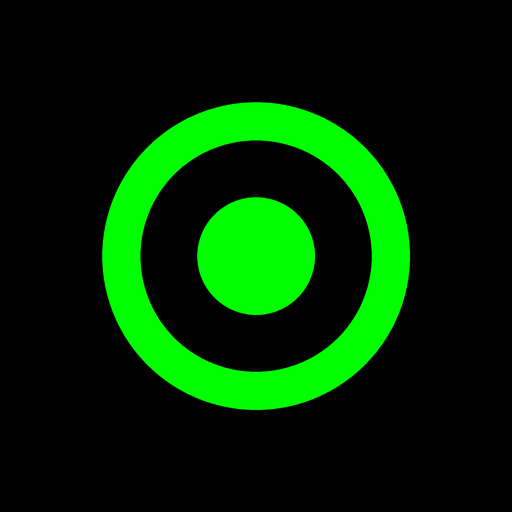
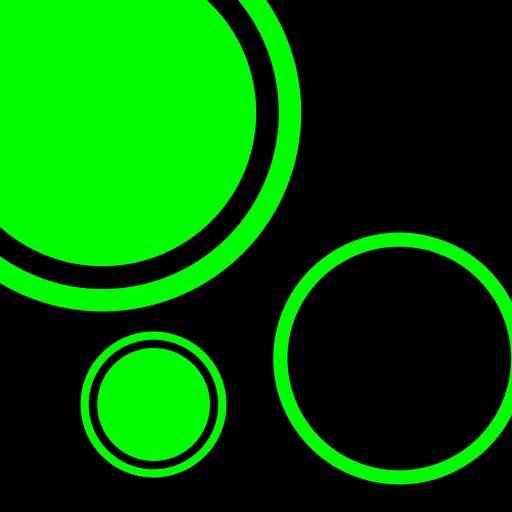
Add files via upload

diff --git a/index.html b/index.html
@@ -345,7 +345,7 @@ setTimeout(auditSize, 1200);
 /* H is constant now, so a saved game never needs rescaling on load. */
 
 /* ---------------------------------------------------------------- scenes */
-const SC = { MENU:0, PLAYMENU:1, TUT:2, ABOUT:3, SETTINGS:4, HISCORE:5, GAME:6, OVER:7 };
+const SC = { MENU:0, PLAYMENU:1, TUT:2, ABOUT:3, SETTINGS:4, HISCORE:5, GAME:6, OVER:7, RESET:8 };
 let scene = SC.MENU;
 let tutStep = 0;
 
@@ -380,7 +380,10 @@ function slotLabel(k, text, fs, rot, lh){
 }
 
 MENUS[SC.MENU] = [
-  slot("B", { fs:57, label:"play!",      rot:3.3,  solid:true, act:function(){ scene = SC.PLAYMENU; } }),
+  /* Nothing to resume means the play menu has one live button on it, so skip
+     it and start the round. */
+  slot("B", { fs:57, label:"play!", rot:3.3, solid:true,
+              act:function(){ if (resumable()) scene = SC.PLAYMENU; else newGame(); } }),
   slot("A", { fs:32, label:"high\nscore", rot:-4, lh:0.80, solid:true,
               act:function(){ scene = SC.HISCORE; } }),
   slot("C", { fs:27, label:"settings",   rot:-6.1, solid:true, act:function(){ scene = SC.SETTINGS; } }),
@@ -388,9 +391,16 @@ MENUS[SC.MENU] = [
   slot("D", { fs:43, label:"?",          rot:5.5,   act:function(){ tutStep=0; scene = SC.TUT; } })
 ];
 MENUS[SC.PLAYMENU] = [
-  { x:150, y:118, r:52, fs:20, label:"new\ngame", big:true, act:function(){ newGame(); } },
-  { x: 96, y:246, r:44, fs:15, label:"resume",              act:function(){ if (resumable()) { auditSize(); scene = SC.GAME; } } },
-  { x:212, y:272, r:34, fs:14, label:"back",                act:function(){ scene = SC.MENU; } }
+  slot("A", { fs:34, lh:0.86, rot:-8.9, label:"new\ngame", act:function(){ newGame(); } }),
+  slot("C", { fs:32, rot:-7.1, label:"resume",
+              act:function(){ if (resumable()) { auditSize(); scene = SC.GAME; } } }),
+  slot("D", { fs:21, rot:3.4, label:"back", act:function(){ scene = SC.MENU; } })
+];
+/* Reset asks first, on its own screen, the way the original did. */
+MENUS[SC.RESET] = [
+  slot("A", { fs:34, rot:-3.6, label:"no",  act:function(){ scene = SC.SETTINGS; } }),
+  slot("C", { fs:34, rot:-9.3, label:"yes",
+              act:function(){ high = 0; highDue = true; scene = SC.SETTINGS; } })
 ];
 MENUS[SC.ABOUT]   = [ { x: 40, y:440, r:26, fs:12, label:"menu", act:function(){ scene = SC.MENU; } } ];
 /* Reset moved to Settings, which is where the original kept it. */
@@ -399,7 +409,7 @@ MENUS[SC.HISCORE] = [
 ];
 MENUS[SC.SETTINGS] = [
   slot("A", { fs:24, lh:0.86, rot:-4.9, label:"reset\nhigh\nscore",
-              act:function(){ high = 0; highDue = true; } }),
+              act:function(){ scene = SC.RESET; } }),
   slot("B", { sound:true, label:"",
               act:function(){ soundOn = !soundOn; store.set("sound", soundOn); if (soundOn) play("tap", 0.5); } }),
   slot("F", { fs:11, toggle:true, quiet:true,
@@ -413,9 +423,9 @@ MENUS[SC.SETTINGS] = [
   slot("D", { fs:21, label:"back", rot:3.4, act:function(){ scene = SC.MENU; } })
 ];
 MENUS[SC.TUT] = [
-  { x: 40, y:440, r:26, fs:24, label:"\u2039", act:function(){ tutStep = Math.max(0, tutStep-1); } },
-  { x:280, y:440, r:26, fs:24, label:"\u203a", act:function(){ if (tutStep>=4) scene = SC.MENU; else tutStep++; } },
-  { x:280, y: 45, r:23, fs:11, label:"menu",    act:function(){ scene = SC.MENU; } }
+  { x: 40, y:440, r:26, chev:-1, act:function(){ tutStep = Math.max(0, tutStep-1); } },
+  { x:280, y:440, r:26, chev: 1, act:function(){ if (tutStep>=4) scene = SC.MENU; else tutStep++; } },
+  { x:280, y: 45, r:23, fs:11, label:"menu", act:function(){ scene = SC.MENU; } }
 ];
 MENUS[SC.OVER] = [
   slot("C", { fs:32, label:"replay", rot:-8.2, act:function(){ newGame(); } }),
@@ -892,8 +902,24 @@ const ICON_MUTE = new Path2D("M16,15.5a1,1,0,0,1-.71-.29,1,1,0,0,1,0-1.42l5-5a1,
 const ICON_SCALE = 0.045;    // of the button's radius, so it travels with it
 const ICON_TILT  = -7;       // degrees, counter-clockwise
 
+/* Drawn rather than set in type. A guillemet sits on the text baseline and its
+   ink is nowhere near the middle of the em, so setting one never lands in the
+   centre of a circle however it is aligned. */
+function chevron(x, y, s, dir){
+  ctx.save();
+  ctx.translate(x, y);
+  ctx.strokeStyle = "#00ff00"; ctx.lineWidth = s * 0.30;
+  ctx.lineCap = "round"; ctx.lineJoin = "round";
+  ctx.beginPath();
+  ctx.moveTo(-dir * s * 0.34, -s * 0.52);
+  ctx.lineTo( dir * s * 0.34, 0);
+  ctx.lineTo(-dir * s * 0.34, s * 0.52);
+  ctx.stroke();
+  ctx.restore();
+}
 function drawButton(b){
   const by = btnY(b);
+  if (b.chev) { ring(b.x, by, b.r, b.rw || 5); chevron(b.x, by, b.r * 0.72, b.chev); return; }
   /* A toggle reads as filled when it is on: green disc, black text, the inverse
      of every other bubble on the screen. */
   if (b.toggle) {
@@ -947,7 +973,7 @@ function drawMenu(){
   for (const b of list) {
     if (scene === SC.PLAYMENU && b.label === "resume" && !resumable()) {
       ctx.save(); ctx.globalAlpha = 0.28; drawButton(b); ctx.restore();
-    } else if (scene === SC.TUT && b.label === "‹" && tutStep === 0) {
+    } else if (scene === SC.TUT && b.chev === -1 && tutStep === 0) {
       ctx.save(); ctx.globalAlpha = 0.28; drawButton(b); ctx.restore();
     } else drawButton(b);
   }
@@ -1131,6 +1157,15 @@ function drawSettings(){
   drawMenu();
 }
 
+function drawPlayMenu(){
+  slotLabel("B", "play!", 57, 4.8);
+  drawMenu();
+}
+function drawReset(){
+  slotLabel("B", "reset?", 46, 2.7);
+  drawMenu();
+}
+
 function render(){
   ctx.setTransform(q, 0, 0, q, 0, 0);
   ctx.clearRect(0, 0, W, H);
@@ -1142,7 +1177,8 @@ function render(){
   else if (scene === SC.ABOUT)    drawAbout();
   else if (scene === SC.HISCORE)  drawHiscore();
   else if (scene === SC.SETTINGS) drawSettings();
-  else if (scene === SC.PLAYMENU) { drawMenu(); wordmark(160, V(356), 46); }
+  else if (scene === SC.PLAYMENU) drawPlayMenu();
+  else if (scene === SC.RESET)    drawReset();
   else                            drawTitle();
   drawDbg();
 }
